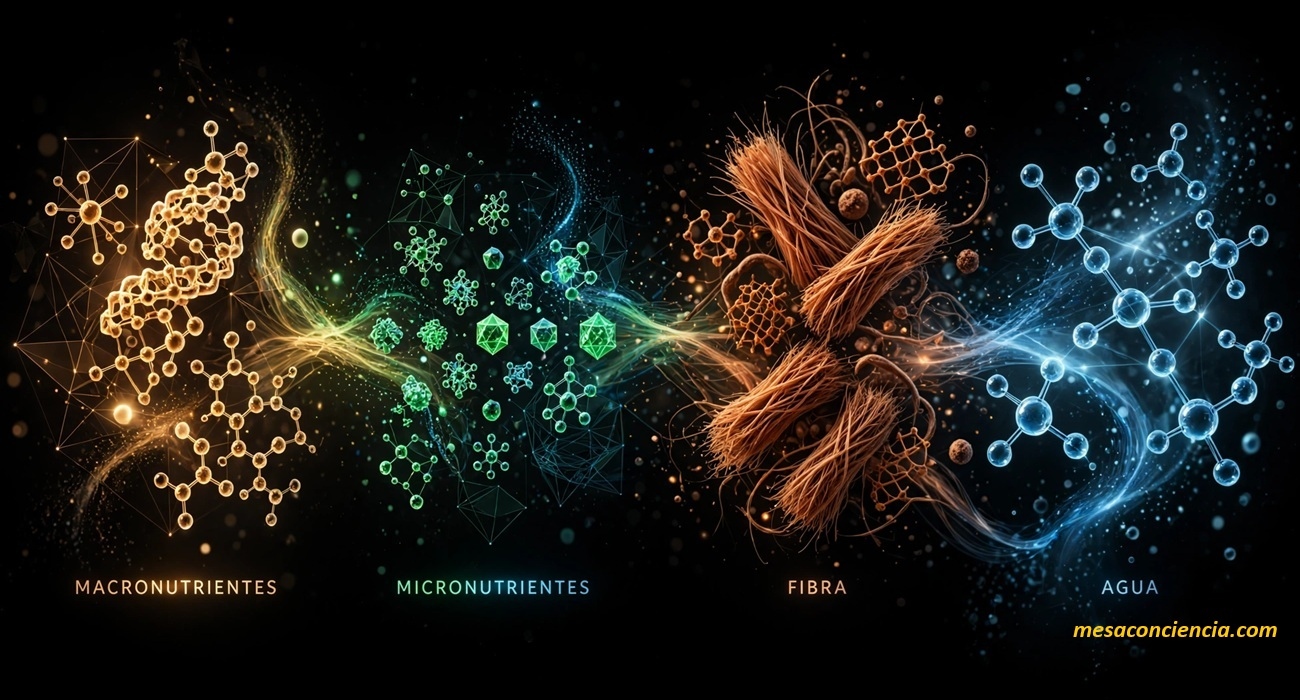
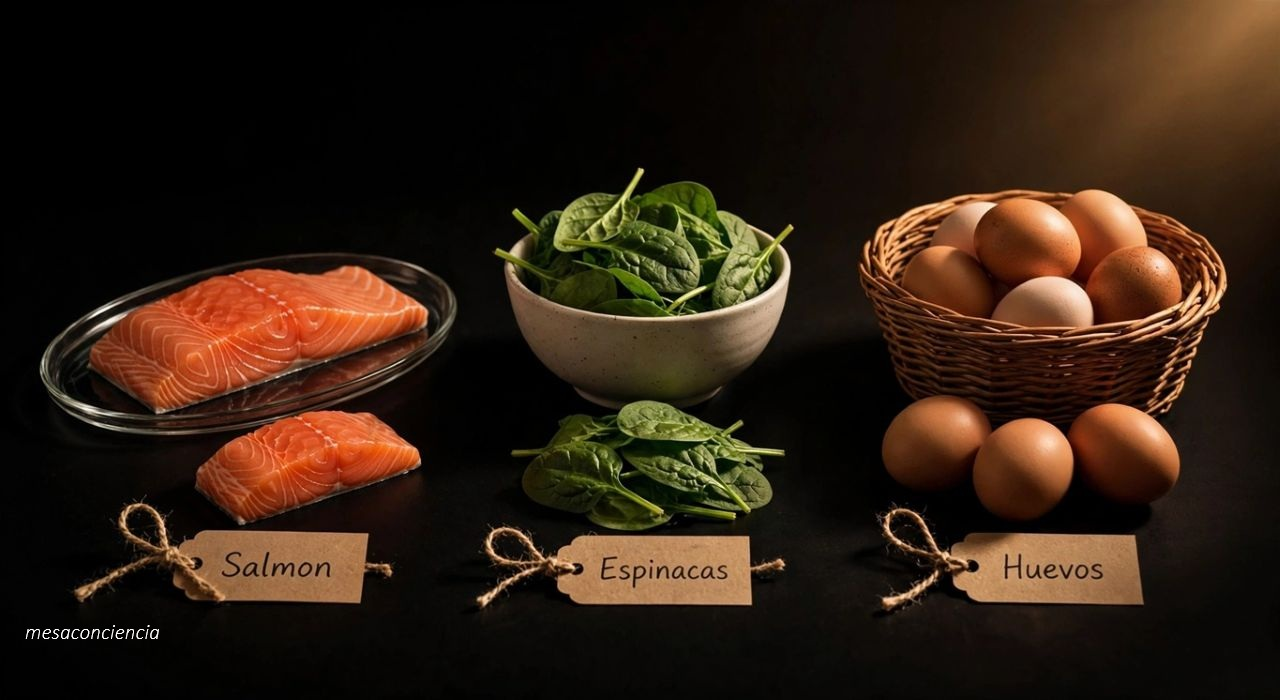
Aminoácidos: revisión editorial nivel alto — lisina.md reescrita y triptofano.md refinado

diff --git a/src/content/nutricion/macronutrientes/proteinas/aminoacidos-esenciales/lisina.md b/src/content/nutricion/macronutrientes/proteinas/aminoacidos-esenciales/lisina.md
@@ -1,26 +1,34 @@
 ---
 title: "Lisina"
 description: "Lisina: es el aminoácido esencial limitante en los cereales; funciones en el colágeno y la carnitina, relación con el calcio, fuentes y suplementación."
+date: 2026-06-15
 categoria: "Aminoácidos esenciales"
 draft: false
-date: 2026-06-15
 ---
 
-La lisina es uno de los [aminoácidos esenciales](/nutricion/macronutrientes/proteinas/aminoacidos-esenciales) más estudiados por dos razones prácticas: es el aminoácido que más escasea en los cereales (trigo, arroz y maíz) en relación a las necesidades humanas —el **aminoácido limitante**—, y acumula evidencia en áreas tan distintas como la salud ósea, la producción de energía y el virus del herpes.
+A finales de los años setenta, un estudio en dermatología llegó a una conclusión que parecía demasiado simple: tomar un aminoácido en dosis altas reducía los brotes de herpes labial. No porque neutralizara el virus, sino porque ese aminoácido compite con lo que el virus necesita para reproducirse. Era la lisina.
+
+Que la lisina tuviera algo que decirle al herpes era inesperado. Lo que ya no sorprende, una vez que entiendes su papel, es que las culturas que combinaron legumbres con cereales —[lentejas](/alimentos/legumbres/lentejas) con arroz, [garbanzos](/alimentos/legumbres/garbanzos) con pan, [alubias](/alimentos/legumbres/alubias) con tortilla de maíz— estaban resolviendo, sin saberlo, el mayor problema nutricional de los granos: la lisina es el aminoácido que más escasea en los cereales, y sin legumbres que la aporten, tu cuerpo no puede aprovechar toda la proteína que comes.
+
+La **lisina** es uno de los [nueve aminoácidos esenciales](/nutricion/macronutrientes/proteinas/aminoacidos-esenciales) que tu cuerpo no puede fabricar y necesita obtener de la dieta. Tres funciones principales la distinguen: participa en la construcción del colágeno —la [proteína](/nutricion/macronutrientes/proteinas) más abundante de tu cuerpo—, en la producción de la molécula que introduce las grasas en tus centrales de energía celular, y en la absorción del calcio en los huesos.
 
 ## ¿Cuánta lisina necesitas?
 
-La OMS establece una necesidad media de **30 mg/kg de peso corporal al día** en adultos. Si pesas 70 kg, son unos 2.100 mg diarios, una cantidad cubierta con facilidad por cualquier dieta que incluya [proteína](/nutricion/macronutrientes/proteinas) de calidad.
+La OMS establece una necesidad media de **30 mg por cada kg de peso corporal al día** en adultos. Si pesas 70 kg, son unos 2.100 mg diarios, una cantidad que cubre con facilidad cualquier dieta que incluya proteína de calidad.
 
-## Funciones principales de la lisina
+## ¿Para qué sirve la lisina?
 
-**Síntesis de colágeno.** Es la más conocida. El colágeno es la proteína más abundante de tu cuerpo: forma tendones, ligamentos, piel, huesos y vasos sanguíneos. Para que sea estable, la lisina tiene que ser modificada por la proteína especializada que cataliza ese cambio —la **lisil oxidasa**—, que la convierte en una variante química de la propia lisina —la **hidroxilisina**—. Esta actúa como punto de anclaje para crear las cadenas cruzadas que dan resistencia al colágeno. Sin lisina suficiente, el colágeno pierde integridad.
+**Síntesis de colágeno.** El colágeno es la [proteína](/nutricion/macronutrientes/proteinas) más abundante de tu cuerpo: forma tendones, ligamentos, piel, huesos y vasos sanguíneos. Para que sea resistente, sus cadenas necesitan entrelazarse entre sí formando puentes. La lisina actúa como el punto de anclaje donde ocurren esos puentes.
 
-**Síntesis de carnitina.** La carnitina es la molécula que transporta las grasas descompuestas por la digestión —los **ácidos grasos**— al interior de las centrales energéticas de tus células —las **mitocondrias**— para convertirlos en energía. Tu organismo la fabrica a partir de lisina y [metionina](/nutricion/macronutrientes/proteinas/aminoacidos-esenciales/metionina), con la ayuda de la [vitamina C](/nutricion/micronutrientes/vitaminas/hidrosolubles/vitamina-c), la [vitamina B3](/nutricion/micronutrientes/vitaminas/hidrosolubles/vitamina-b3) y la [vitamina B6](/nutricion/micronutrientes/vitaminas/hidrosolubles/vitamina-b6). Si tu ingesta de lisina es insuficiente, puedes tener niveles bajos de carnitina, lo que afecta a tu metabolismo de las [grasas](/nutricion/macronutrientes/grasas-o-lipidos).
+Para cumplir esa función, la lisina debe ser transformada primero. Una enzima especializada —la **lisil oxidasa**— la convierte en una forma modificada de sí misma —la **hidroxilisina**—, que es la que puede crear los puentes cruzados entre fibras. Sin suficiente lisina, el colágeno se fabrica pero pierde resistencia.
 
-**Absorción del calcio.** La lisina favorece la absorción intestinal de [calcio](/nutricion/micronutrientes/minerales/calcio) y reduce su excreción urinaria. Este doble efecto la convierte en un factor relevante para el proceso por el que el calcio se deposita en tus huesos —la **mineralización ósea**—, aunque el mecanismo exacto no se conoce completamente.
+**Síntesis de carnitina.** La carnitina es la molécula que transporta las grasas desglosadas por la digestión —los **ácidos grasos**— al interior de las centrales energéticas de tus células —las **mitocondrias**— para convertirlos en energía. Tu organismo la fabrica a partir de lisina y [metionina](/nutricion/macronutrientes/proteinas/aminoacidos-esenciales/metionina), con la ayuda de la [vitamina C](/nutricion/micronutrientes/vitaminas/hidrosolubles/vitamina-c), la [vitamina B3](/nutricion/micronutrientes/vitaminas/hidrosolubles/vitamina-b3) y la [vitamina B6](/nutricion/micronutrientes/vitaminas/hidrosolubles/vitamina-b6). Con niveles bajos de lisina, la producción de carnitina cae y con ella la capacidad de quemar [grasas](/nutricion/macronutrientes/grasas-o-lipidos) como fuente de energía.
 
-**Sistema inmunitario.** Tu sistema inmunitario necesita lisina para fabricar los anticuerpos —las proteínas defensivas que reconocen y neutralizan virus y bacterias—; sin suficiente lisina, tu respuesta inmune ante infecciones y vacunas pierde eficacia.
+**Absorción del calcio.** La lisina mejora la absorción intestinal del [calcio](/nutricion/micronutrientes/minerales/calcio) y reduce su pérdida a través de la orina. Ese doble efecto —entrar más, perder menos— la convierte en un factor relevante para el proceso por el que el calcio se deposita en los huesos —la **mineralización ósea**—, aunque el mecanismo exacto no se ha aclarado del todo.
+
+**Sistema inmunitario.** Las proteínas especializadas que tu sistema inmunitario fabrica para reconocer y neutralizar virus y bacterias —los **anticuerpos**— necesitan lisina como componente estructural. Con niveles bajos, la respuesta inmune ante infecciones y vacunas pierde eficacia.
+
+> La lisina no es el aminoácido más conocido, pero pocas moléculas de la dieta tocan al mismo tiempo el colágeno, el metabolismo de las grasas, los huesos y las defensas.
 
 ## Fuentes alimentarias de lisina
 
@@ -33,56 +41,56 @@ La lisina abunda en las [proteínas de origen animal](/nutricion/macronutrientes
 | Pechuga de pollo (cocida) | 2.400 mg |
 | Salmón del Atlántico (cocido) | 2.300 mg |
 | Lentejas cocidas | 650 mg |
-| [Garbanzos](/alimentos/legumbres/garbanzos) cocidos | 530 mg |
+| Garbanzos cocidos | 530 mg |
 | Arroz blanco cocido | 110 mg |
 | Pan de trigo | 90 mg |
 
 *Fuente: USDA FoodData Central. Valores aproximados.*
 
-La diferencia entre legumbres y cereales es muy marcada. Por eso la combinación tradicional legumbre + cereal (lentejas con arroz, hummus con pan de pita) complementa los perfiles de aminoácidos: las legumbres aportan la lisina que los cereales no tienen; los cereales aportan la metionina que escasea en las legumbres.
+La diferencia entre legumbres y cereales es muy marcada: las lentejas tienen seis veces más lisina que el arroz; el parmesano, treinta. Por eso la combinación tradicional legumbre + cereal complementa los perfiles de aminoácidos: las legumbres aportan la lisina que los cereales no tienen; los cereales aportan la [metionina](/nutricion/macronutrientes/proteinas/aminoacidos-esenciales/metionina) que escasea en las legumbres.
 
-## La lisina como aminoácido limitante en cereales
+## La lisina como aminoácido limitante en los cereales
 
-El aminoácido que está presente en menor cantidad en relación a las necesidades humanas dentro de un alimento concreto se llama **limitante**.
+Cada fuente de proteína tiene un punto débil: el aminoácido que está presente en menor proporción respecto a las necesidades humanas y que, por eso, pone un techo al aprovechamiento del resto. A ese aminoácido se le llama **limitante**.
 
 > En el trigo, el arroz y el maíz, ese aminoácido es la lisina.
 
-Esto tiene consecuencias prácticas para quienes basan su dieta mayoritariamente en cereales con poca proteína animal o legumbre: aunque consumas suficientes gramos de proteína en total, la lisina puede convertirse en el cuello de botella que limita el aprovechamiento del resto. Es uno de los argumentos principales para promover la diversidad de fuentes proteicas en las dietas basadas en plantas.
+Esto tiene consecuencias prácticas para quien basa su dieta principalmente en cereales con poca proteína animal o legumbre: aunque consumas suficientes gramos de proteína en total, la lisina puede convertirse en el cuello de botella que limita cuánta de esa proteína puede usar tu cuerpo. No es que el arroz sea una mala fuente de proteína. Es que por sí solo no da todo lo que necesitas.
 
-## Lisina y herpes labial: la evidencia
+## Lisina y herpes labial
 
-Existe evidencia clínica —modesta pero consistente— de que la suplementación con L-lisina puede reducir la frecuencia y la duración de los brotes del virus que causa el herpes labial —el **herpes simple** (VHS-1)—.
+Existe evidencia clínica —modesta pero consistente— de que la suplementación con L-lisina puede reducir la frecuencia y la duración de los brotes del virus que causa el herpes labial —el **virus herpes simple (VHS-1)**—.
 
-El mecanismo propuesto es la competencia: la lisina y la arginina —otro aminoácido que el virus del herpes necesita para replicarse— comparten la misma proteína que los transporta a través de la pared intestinal y de las membranas celulares. Cuando abunda la lisina, menos arginina llega a las células y el virus tiene menos material para reproducirse.
+El mecanismo propuesto es la competencia directa entre dos aminoácidos. La lisina y un aminoácido que el virus necesita para replicarse —la **arginina**— comparten la misma proteína que los transporta a través de la pared intestinal y de las membranas celulares. Cuando abunda la lisina, llega menos arginina a las células. Y con menos arginina, el virus tiene menos material para reproducirse.
 
 > La lisina no ataca el virus: le corta el suministro.
 
-Varios ensayos clínicos han mostrado que dosis de **1.000–3.000 mg/día** reducen la frecuencia de brotes en personas propensas. Los resultados no son uniformes: algunos estudios no encuentran diferencia significativa frente a placebo. Creo que la evidencia es suficiente para considerarla una opción razonable en personas con brotes frecuentes, pero no para etiquetarla como tratamiento definitivo.
+Varios ensayos clínicos han mostrado que dosis de **1.000 a 3.000 mg al día** reducen la frecuencia de brotes en personas propensas. Los resultados no son uniformes: algunos estudios no encuentran diferencia significativa frente a placebo. Creo que la evidencia es suficiente para considerarla una opción razonable en personas con brotes frecuentes, pero no para etiquetarla como tratamiento definitivo.
 
-La misma lógica lleva a reducir las fuentes ricas en arginina durante un brote activo (chocolate negro, [frutos secos](/alimentos/frutos-secos), semillas de girasol), aunque la evidencia sobre este punto es menos sólida.
+La misma lógica lleva a reducir las fuentes ricas en arginina durante un brote activo —chocolate negro, [frutos secos](/alimentos/frutos-secos), semillas de girasol—, aunque la evidencia sobre este punto es menos sólida.
 
 ## Suplementación con lisina
 
-La suplementación con L-lisina tiene dos usos clínicos con evidencia:
+**L-lisina para el herpes labial.** La dosis estudiada es de 1.000 a 3.000 mg al día en personas propensas a brotes. El protocolo y los matices de la evidencia se describen en la sección anterior.
 
-**Prevención de herpes labial.** La dosis estudiada es de 1.000–3.000 mg/día en personas propensas a brotes. El protocolo y los matices de la evidencia se describen en la sección anterior.
+**L-lisina como soporte del colágeno.** Se combina en dosis bajas —500 a 1.000 mg al día— con [vitamina C](/nutricion/micronutrientes/vitaminas/hidrosolubles/vitamina-c), con la que comparte el proceso de síntesis del colágeno. No hay muchos estudios que prueben específicamente esta combinación, aunque lo que se sabe de cómo actúa cada uno apunta en esa dirección.
 
-**Soporte del colágeno.** Se suele combinar en dosis bajas (500–1.000 mg/día) con [vitamina C](/nutricion/micronutrientes/vitaminas/hidrosolubles/vitamina-c), con la que comparte la vía de síntesis de colágeno. La evidencia específica de este protocolo combinado es limitada, aunque la bioquímica subyacente es sólida.
+En las dosis habituales, el cuerpo la tolera sin problemas. A partir de 10 g al día pueden aparecer diarrea y dolor de estómago. No se conocen problemas con medicamentos habituales, salvo lo ya explicado sobre la competencia con la arginina.
 
-Es bien tolerada en el rango habitual. Dosis superiores a 10 g/día pueden provocar diarrea y dolor abdominal. No hay interacciones relevantes documentadas con medicamentos comunes, salvo las ya mencionadas por competencia con la arginina.
+## ¿Qué ocurre si te falta lisina?
 
-## Deficiencia de lisina
+La deficiencia aislada de lisina es rara en dietas variadas. Puede aparecer en personas que consumen dietas muy basadas en cereales refinados sin apenas legumbres, huevos, lácteos ni carne. Los signos descritos incluyen fatiga, pérdida de apetito, náuseas y retraso del crecimiento en niños; en casos graves, alteraciones en la síntesis de colágeno.
 
-La deficiencia aislada de lisina es rara en dietas variadas. Puede aparecer en personas que consumen dietas muy basadas en cereales refinados sin apenas legumbres, huevos, lácteos o carne. Los signos descritos incluyen fatiga, pérdida de apetito, náuseas, retraso del crecimiento en niños y, en casos severos, alteraciones en la síntesis de colágeno.
+Las poblaciones históricas con mayor riesgo eran las que subsistían casi exclusivamente de maíz. El maíz tiene la menor concentración de lisina de los cereales de uso extendido. Cuando se convierte en la base prácticamente única de la dieta —sin legumbres ni proteína animal que lo complementen—, el retraso del crecimiento en niños es una de las primeras señales visibles.
 
-Históricamente, las poblaciones que dependían casi exclusivamente del maíz lo consumían sin el proceso de cocción con cal que libera los nutrientes atrapados en el grano —la **nixtamalización**—. Sin ese proceso, el maíz aporta poco [triptófano](/nutricion/macronutrientes/proteinas/aminoacidos-esenciales/triptofano) y poca [vitamina B3](/nutricion/micronutrientes/vitaminas/hidrosolubles/vitamina-b3) —la **niacina**— en forma utilizable. Los déficits combinados con la lisina se manifestaban como una enfermedad con lesiones en la piel, diarrea y deterioro cognitivo —la **pelagra**— y retraso del crecimiento.
+Las legumbres que las culturas combinaron con los cereales no resolvían un misterio: resolvían una escasez que nadie había identificado. Y la competencia de la lisina con la arginina resultó ser, cuarenta años después de los primeros estudios, la explicación molecular de por qué un aminoácido en dosis altas puede interferir con la biología de un virus.
 
-La lisina es el aminoácido esencial con mayor impacto práctico en dietas centradas en cereales: es el primero en escasear cuando las legumbres y la proteína animal están ausentes.
+Dos hechos sin conexión aparente. El mismo aminoácido.
 
 ---
 
 ## Referencias
 
 - <a href="https://iris.who.int/handle/10665/43411" target="_blank" rel="noopener noreferrer">WHO/FAO/UNU. Protein and Amino Acid Requirements in Human Nutrition. WHO Technical Report Series 935. 2007.</a>
-- <a href="https://pubmed.ncbi.nlm.nih.gov/3115841/" target="_blank" rel="noopener noreferrer">Griffith RS et al. A multicentered study of lysine therapy in herpes simplex infection. Dermatologica. 1978.</a>
+- <a href="https://pubmed.ncbi.nlm.nih.gov/640102/" target="_blank" rel="noopener noreferrer">Griffith RS et al. A multicentered study of lysine therapy in herpes simplex infection. Dermatologica. 1978.</a>
 - <a href="https://pubmed.ncbi.nlm.nih.gov/6435961/" target="_blank" rel="noopener noreferrer">McCune MA et al. Treatment of recurrent herpes simplex infections with L-lysine monohydrochloride. Cutis. 1984.</a>
